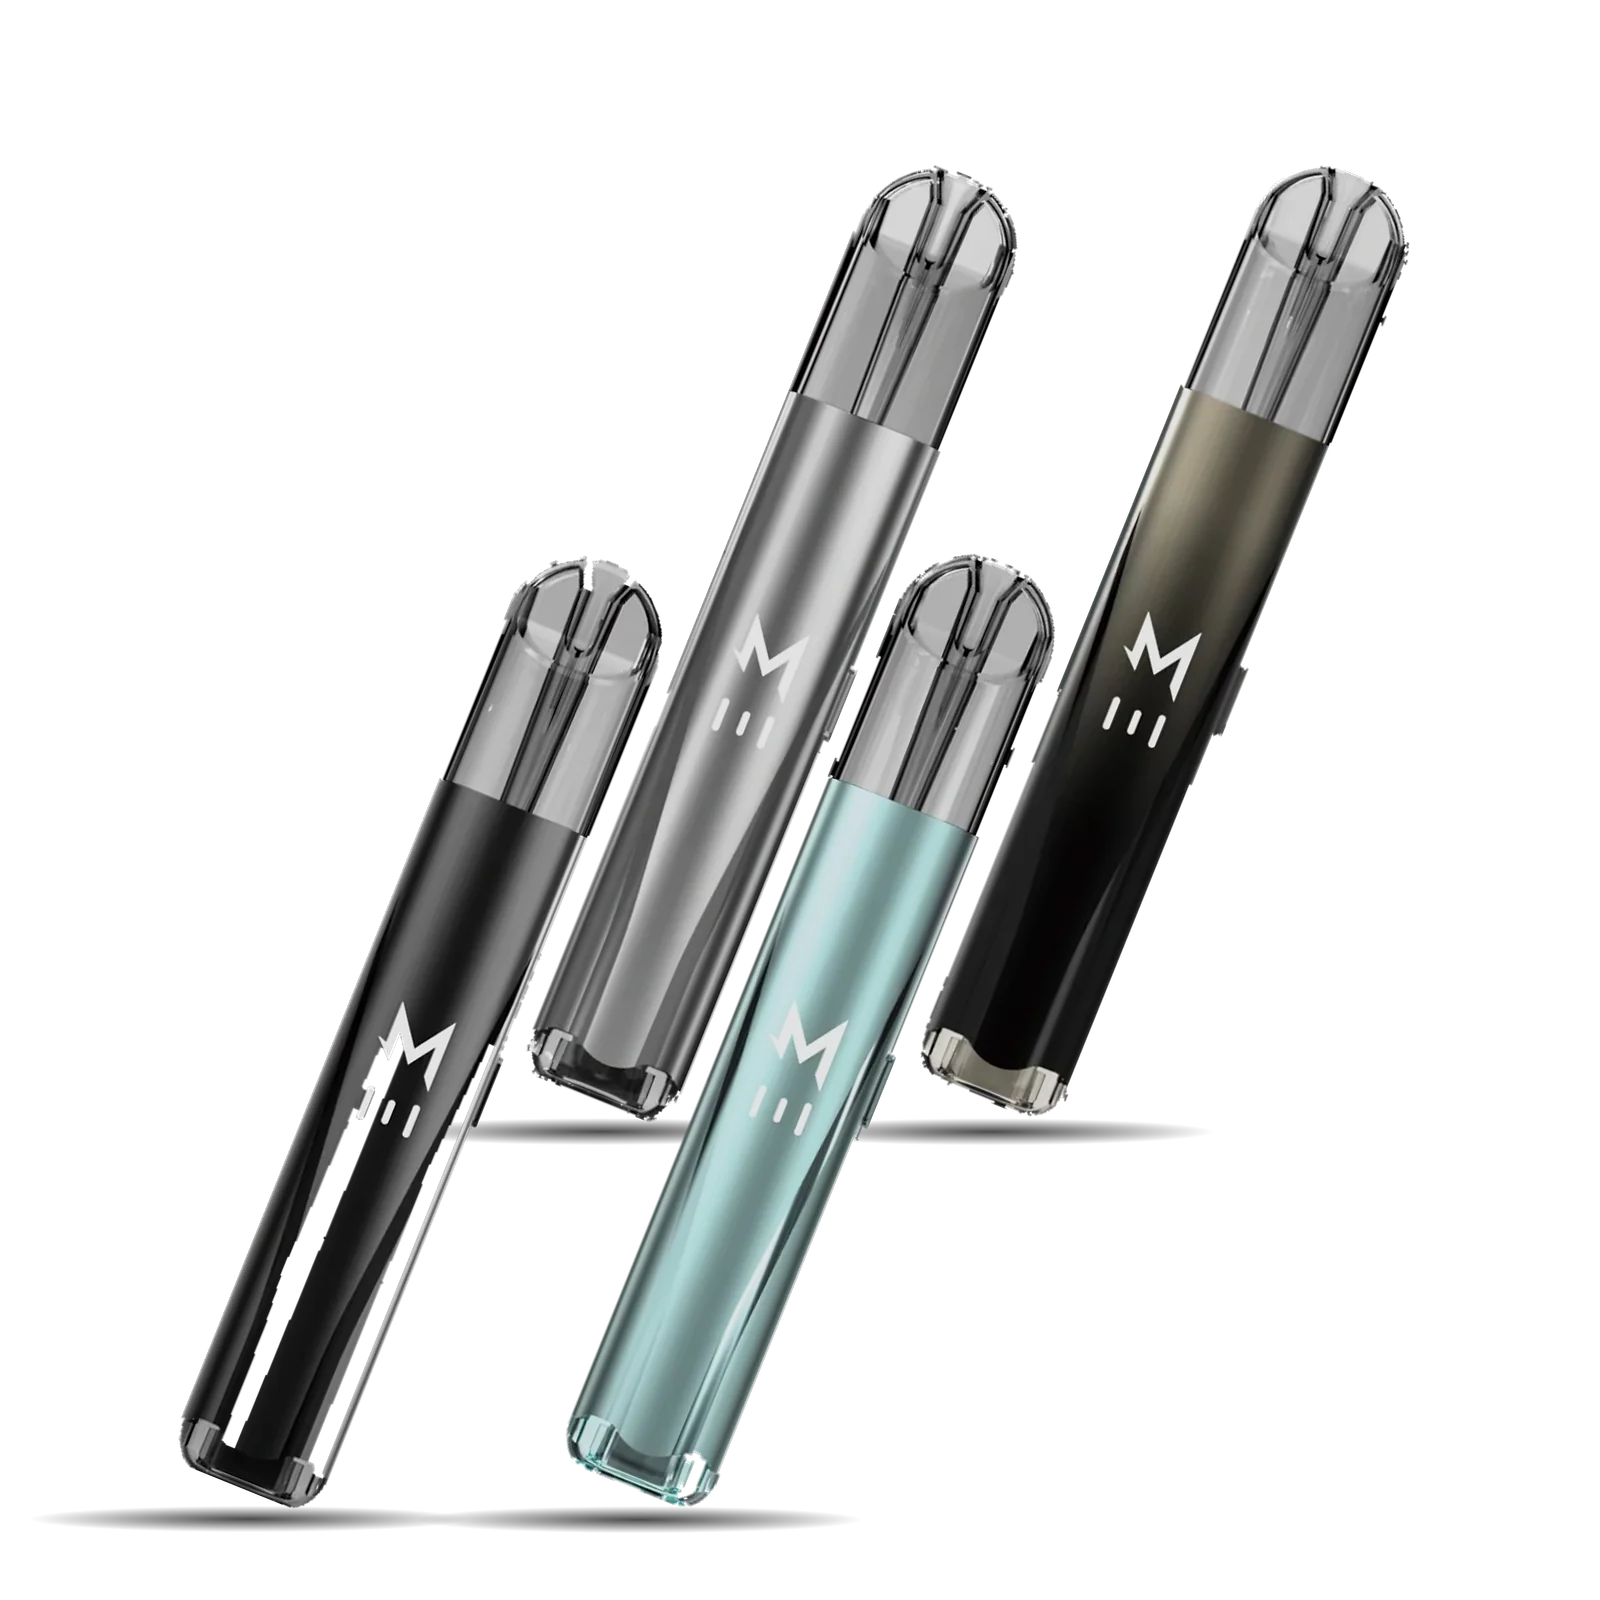
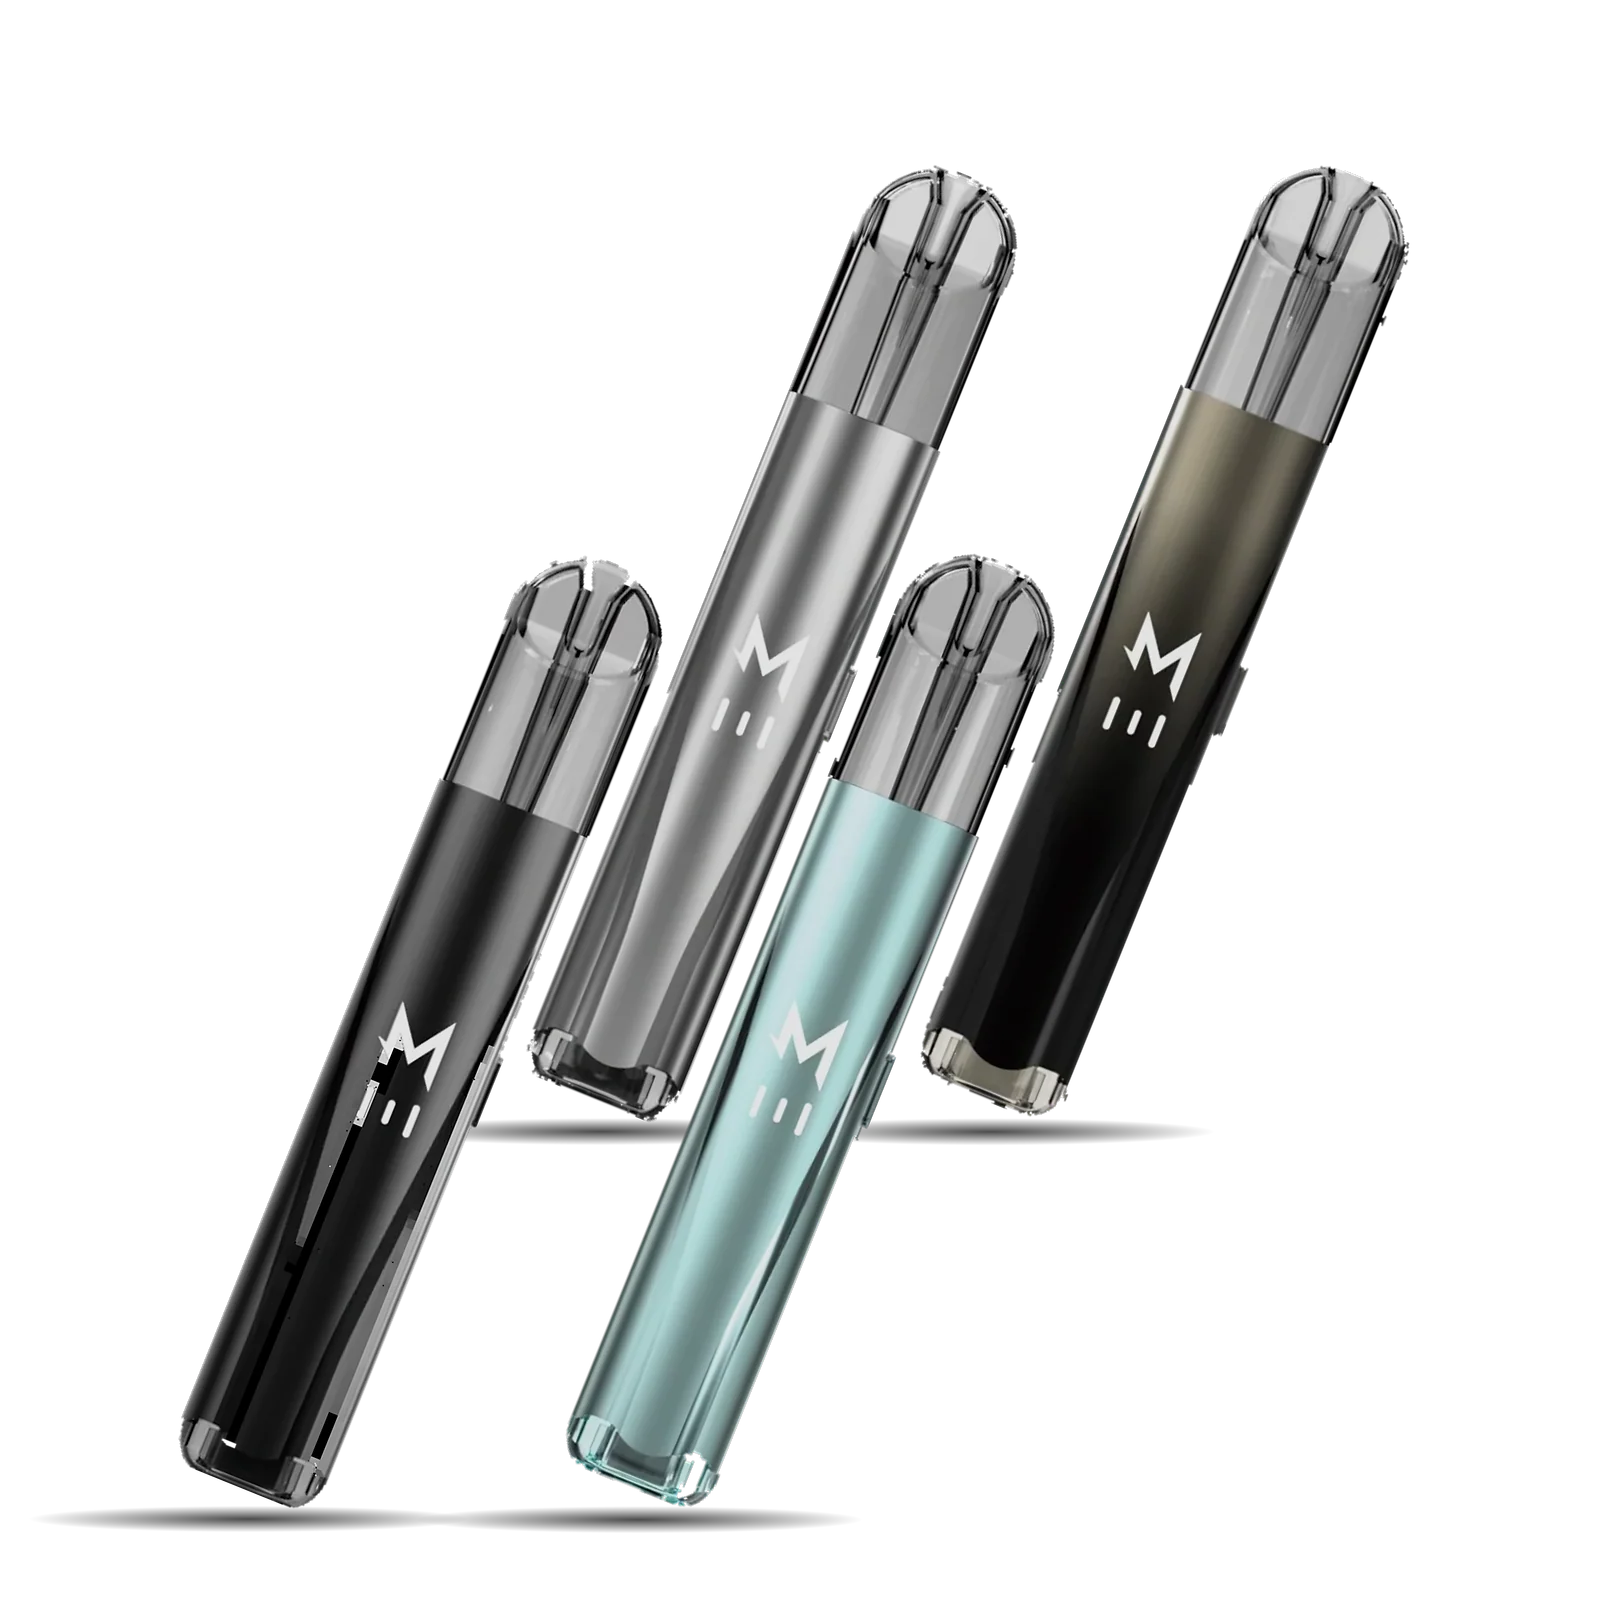
fix: Zero Pro Black photo without see-through body patches, lineup 2 rebuilt (checker #273 r1)
The 2026-09-05 Black cut-out had 16% of its body band keyed out with the background (holes on the dark page);
variant-black-v2 = the same pixels with those patches made opaque (_incoming/sitewide-template/3/3a/holes.js).
The other 7 colours measured clean.

diff --git a/src/data/products/salthub.ts b/src/data/products/salthub.ts
@@ -692,7 +692,7 @@ export const salthubProducts: Product[] = [
         name: "Black",
         swatchHex: "#1a1a1a",
         // was this product's card photo; now its own cut-out so all 8 colours share one canvas
-        image: { src: "/assets/products/zero-pro/variant-black.webp", alt: "SALTHUB / Marbo Zero Pro, Black" },
+        image: { src: "/assets/products/zero-pro/variant-black-v2.webp", alt: "SALTHUB / Marbo Zero Pro, Black" },
       },
       { id: "pink", name: "Pink", swatchHex: "#e8899a", image: { src: "/assets/products/zero-pro/variant-pink.webp", alt: "SALTHUB / Marbo Zero Pro, Pink (official: Flesh Pink)" } },
       { id: "teal", name: "Teal", swatchHex: "#2a8a8a", image: { src: "/assets/products/zero-pro/variant-teal.webp", alt: "SALTHUB / Marbo Zero Pro, Teal (official: Light Blue)" } },
